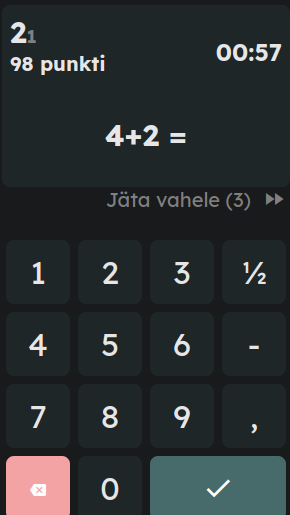
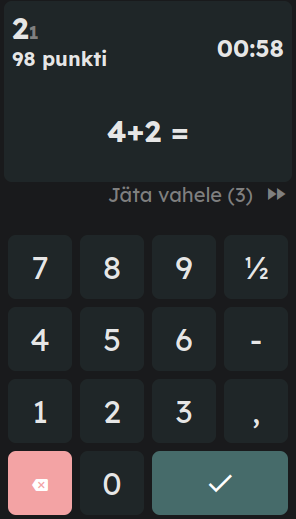
Class join and leave/change updates, UI bug fixes and semantic improvements

diff --git a/resources/js/Pages/Guide/GuidePage.jsx b/resources/js/Pages/Guide/GuidePage.jsx
@@ -1,0 +1,82 @@
+import Navbar from "@/Components/Navbar";
+import SizedBox from "@/Components/SizedBox";
+import { Head } from "@inertiajs/react";
+import "/public/css/guide.css";
+import HorizontalRule from "@/Components/HorizontalRule";
+
+export default function GuidePage({auth}){
+    return <>
+        <Head title="Kuidas mängida?" />
+        {auth.user != null && <Navbar title="Kuidas mängida" user={auth.user} />}
+
+        <SizedBox height={36} />
+
+        <h2>Kuidas mängida?</h2>
+
+        <section>
+            <div className='header-container'>
+                <h3 className='section-header'>Liitmine</h3>
+            </div>
+
+            <div className="guide-div">
+                <h4>Ühelised</h4>
+                <p className="before-example">Alguseks on hea teha sõrmede peal.</p>
+                <span className="example">3 + 4 = 3 sõrme + 4 sõrme = 5 sõrme + 2 sõrme = 7 sõrme = 7</span>
+                <p className="before-example">Kui liitmine jäeb kümneliste piirile, siis esimesena liitge ühele arvule piisav summa, et jõuaksite kümneni ja siis ülejäänu.</p>
+                <span className="example">7+8 = 7+3+5 = 10 + 5 = 15</span>
+            </div>
+        </section>
+
+        <section>
+            <div className='header-container'>
+                <h3 className='section-header'>Jaguvusseadused</h3>
+            </div>
+
+            <div className="guide-div">
+                <table>
+                    <thead>
+                        <th>Millega jagub</th>
+                        <th>Jaguvustunnus</th>
+                    </thead>
+                    <tbody>
+                        <tr>
+                            <td>2</td>
+                            <td>
+                                <p className="before-example">Arvu üheliste number peab olema paarisarv</p>
+                                <span className="example">Paarisarvud on 0, 2, 4, 6 ja 8</span>
+                            </td>
+                        </tr>
+                        <tr>
+                            <td>3</td>
+                            <td>
+                                <p className="before-example">Arvu ristsumma peab jaguma kolmega</p>
+                                <span className="example">Ristsumma on arvu kõikide numbrite summa</span>
+                            </td>
+                        </tr>
+                        <tr>
+                            <td>4</td>
+                            <td>
+                                <p className="before-example">Arvu kahest viimasest numbrist moodustunud arv peab jaguma neljaga</p>
+                                <span className="example">5<b>24</b> jagub neljaga, sest <b>24</b> jagub neljaga</span>
+                            </td>
+                        </tr>
+                        <tr>
+                            <td>5</td>
+                            <td>
+                                <p className="before-example">Arvu üheliste number peab olema 0 või 5</p>
+                                <span className="example">6320 jagub viiega, sest see lõppeb numbriga 0</span>
+                            </td>
+                        </tr>
+                        <tr>
+                            <td>6</td>
+                            <td>
+                                <p className="before-example">Arv peab jaguma nii kahe kui kolmega</p>
+                                <span className="example">630 jagub kuuega, sest see jagub kahega ja kolmega</span>
+                            </td>
+                        </tr>
+                    </tbody>
+                </table>
+            </div>
+        </section>
+    </>;
+}

diff --git a/resources/js/Pages/Welcome/WelcomePage.jsx b/resources/js/Pages/Welcome/WelcomePage.jsx
@@ -1,26 +1,51 @@
 import ApplicationLogo from "@/Components/ApplicationLogo";
-import LoginHeader from "@/Components/LoginHeader";
 import SizedBox from "@/Components/SizedBox";
 import { Head } from "@inertiajs/react";
 import "/public/css/welcome.css";
+import { useEffect, useState } from "react";
 
 
 export default function WelcomePage(){
 
+    const [clickEaster2, setClickEaster2] = useState(0);
+
+    function showPriscAnimation(){
+        $("#priscilla").css("transform", "translate(0px, -250px)").css("visibility", "visible");
+
+        setTimeout(() => {
+            $("#priscilla").css("transform", "translate(-100px, 250px)");
+            setTimeout(() => {
+                $("#priscilla").css("visibility", "hidden");
+            }, 1000);
+        }, 2000);
+    }
+
+    useEffect(()=>{
+        if(clickEaster2 == 3){
+            setClickEaster2(0);
+            showPriscAnimation();
+        }
+    }, [clickEaster2]);
+
     setTimeout(() => {
         $(".sparkle:nth-of-type(1)").animate({"opacity": "1"}, {"duration":"200"});
-    }, 0);
+    }, 200);
 
     setTimeout(() => {
         $(".sparkle:nth-of-type(3)").animate({"opacity": "1"}, {"duration":"300"});
-    }, 100);
+    }, 300);
 
     setTimeout(() => {
         $(".sparkle:nth-of-type(2)").animate({"opacity": "1"}, {"duration":"400"});
-    }, 200);
+    }, 350);
+
+
 
     return (
         <>
+
+            <img id="priscilla" style={{zIndex:"1000", transition:"transform 1000ms", visibility:"hidden", position:"fixed", rotate:"20deg", height:"300px", bottom:"-300px", left:"-100px"}} src="/assets/eastereggs/priskilla.png" alt="" />
+
             <Head title="Tere tulemast" />
             <div className="home-navbar">
                 <div className="title-div">
@@ -32,7 +57,7 @@ export default function WelcomePage(){
             </div>
             <SizedBox height={36} />
             <div className="main-content">
-                <h1><span style={{color:"rgb(var(--primary-color))"}}>Reaaler</span> muudab <br />matemaatika <span className="shine">säravaks<img className="sparkle " src="/assets/homepage/sparkle.png" alt="" /><img className="sparkle " src="/assets/homepage/sparkle.png" alt="" /><img className="sparkle " src="/assets/homepage/sparkle.png" alt="" /></span></h1>
+                <h1><span style={{color:"rgb(var(--primary-color))"}}>Reaaler</span> muudab <br />matemaatika <span className="shine" onClick={()=>setClickEaster2((e)=>e+1)}>säravaks<img className="sparkle " src="/assets/homepage/sparkle.png" alt="" /><img className="sparkle " src="/assets/homepage/sparkle.png" alt="" /><img className="sparkle " src="/assets/homepage/sparkle.png" alt="" /></span></h1>
 
                 <button className="onboarding-btn" onClick={()=>window.location.href = route("register")}> <span translate="no" className="material-icons">calculate</span> Alusta kohe</button>
                 &nbsp;&nbsp;<a alone="" href={route("login")}>Logi sisse&nbsp;&nbsp;<span className="material-icons" translate="no">arrow_right_alt</span></a>

diff --git a/resources/js/Pages/JoinClass/JoinClassPage.jsx b/resources/js/Pages/JoinClass/JoinClassPage.jsx
@@ -9,24 +9,38 @@ export default function JoinClassPage({auth, classData, allClasses, errors}){
 
     console.log(errors);
 
+    function onClassRemove(){
+        if(confirm("Kas oled kindel, et soovid end klassist eemaldada?")){
+            $.post(route("classRemove"), {"_token":window.csrfToken}).done(function (data){
+                window.location.href = route("dashboard");
+            }).fail(function (data){
+                console.log(data);
+            });
+        }
+    }   
+
     return <>
         <Head title='Ühine klassiga' />
         <Navbar user={auth.user} title="Ühine klassiga" />
         <SizedBox height={36} />
 
-        <h2>Ühine klassiga</h2>
+        <h2>{classData == null ? "Ühine klassiga" : "Vaheta klassi"}</h2>
             <div className="container">
                 {Object.keys(errors).length > 0 && <InfoBanner text={errors[Object.keys(errors)[0]]} />}
-                {classData != null && <InfoBanner text={"Sa juba oled klassis ("+classData.klass_name+"). Jätkates lahkud sa automaatselt sellest klassist"} />}
+                {classData != null && <section>
+                    <InfoBanner transparent={true} text={"Sa juba oled klassis ("+classData.klass_name+"). Vajutades 'Lahku klassist' või lisades end mõnda teise klassi eemaldatakse sind praegusest klassist."} />
+                    <button onClick={onClassRemove} style={{marginTop:"0", width:"100%", height:"100%", boxSizing:"border-box", marginInline:"-8px"}} secondary=""> <span className="material-icons" translate="no">close</span> Lahku klassist</button>
+                </section>}
                 <div className="preferences">
                     <section>
-                        <form action={route("join")} method="post">
+                        <form action={route("join")} method="post" autoComplete="off">
+                            <input type="hidden" name="" id="" autoComplete="false" />
                             <input type="hidden" name="_token" value={window.csrfToken}  />
                             <select style={{marginBottom:"8px"}} name="klass_id" required>
                                 <option disabled selected value="">Vali klass</option>
                                 {allClasses.map((e)=> <option key={e.klass_id} value={e.klass_id}>{e.klass_name}</option> )}
                             </select>
-                            <input required style={{width:"100%", height:"100%", boxSizing:"border-box", marginInline:"-8px"}} type="password" name="klass_password" placeholder="Parool klassiga ühinemiseks" />
+                            <input autoComplete="new-password" required style={{width:"100%", height:"100%", boxSizing:"border-box", marginInline:"-8px"}} type="password" name="klass_password" placeholder="Parool klassiga ühinemiseks" />
                             <button style={{width:"100%", height:"100%", boxSizing:"border-box", marginInline:"-8px"}} type="submit">Ühine</button>
                         </form>
                     </section>

diff --git a/resources/js/Components/GameTile.jsx b/resources/js/Components/GameTile.jsx
@@ -4,16 +4,28 @@ const typeToReadable = {
     "natural":"Naturaalarvud",
     "integer":"Täisarvud",
     "fraction":"Kümnendmurrud",
+    "roman":"Rooma numbrid",
+    "kujundid":"Tavaline",
+    "color":"Erinevad värvid",
+    "size":"Erinevad suurused",
+    "all":"Erinevad värvid ja suurused"
 };
 
 const isTypeShown = data.game_type != null && data.game_type in typeToReadable;
+
+const gameNames = {
+    "lihtsustamine":"Murru taandamine",
+    "jaguvus":"Jaguvusseadused"
+};
+
+var gameName = data.game == null ? "Tundmatu" : data.game in gameNames ? gameNames[data.game] : data.game.substring(0, 1).toUpperCase() + data.game.substring(1);
 
 return <>
         <a href={"/game/"+data.game_id+"/details"} style={{all:"unset", cursor:"pointer"}}>
             <div style={{overflow:"hidden", display:"flex", justifyContent:"space-between", flexDirection:"row", backgroundColor:"rgb(var(--section-color), var(--section-transparency))", borderRadius:"8px", margin:"8px", padding:"8px"}}>
                 <div style={{textAlign:"start"}}> 
-                    <h2 style={{color:"rgb(var(--primary-color))", fontSize:"1.3em", marginBlock:"4px", textTransform:"capitalize"}}>{data.game ?? "Tundmatu"}</h2>
-                    <p style={{marginBlock:"4px", color:"grey"}}>{data.score_sum} punkt{data.score_sum == 1 ? "" : "i"} {isTypeShown && <span>·</span>} <span style={{textTransform:"capitalize"}}>{isTypeShown ? typeToReadable[data.game_type] : ""}</span></p>
+                    <h2 style={{color:"rgb(var(--primary-color))", fontSize:"1.3em", marginBlock:"4px"}}>{data.game == null ? "Tundmatu" : decodeURIComponent(gameName)}</h2>
+                    <p style={{marginBlock:"4px", color:"grey"}}>{data.score_sum} punkt{data.score_sum == 1 ? "" : "i"} {isTypeShown && <span>·</span>} <span>{isTypeShown ? typeToReadable[data.game_type] : ""}</span></p>
                     
                     {/* <p style={{marginBlock:"4px", color:"grey"}}>{data.game_count} tehe{data.game_count == 1 ? "" : "t"} {isTypeShown && <span>·</span>} <span style={{textTransform:"capitalize"}}>{isTypeShown ? typeToReadable[data.game_type] : ""}</span></p> */}
                 </div>

diff --git a/resources/js/Pages/Dashboard/DashboardPage.jsx b/resources/js/Pages/Dashboard/DashboardPage.jsx
@@ -36,14 +36,14 @@ export default function Dashboard({auth, stats, classData}) {
                     <h3 className='section-header'>Statistika</h3>
                 </div>
                 <div className="stats-container">
-                    <StatisticsWidget stat={stats.total_training_count ?? totalTrainingCount} desc={"Treeningut"} oneDesc={"Treening"} />
+                    <StatisticsWidget stat={stats.total_training_count ?? totalTrainingCount} desc={"Mängu"} oneDesc={"Mäng"} />
                     <StatisticsWidget stat={(stats.accuracy ??(parseInt(window.localStorage.getItem("total-percentage") ?? "0")/parseInt(window.localStorage.getItem("total-training-count") ?? "1")).toFixed(0)) + "%"} desc="Vastamistäpsus" />
                     {/* <StatisticsWidget stat={stats.last_active ?? "-"} desc="Viimati aktiivne" /> */}
-                    <StatisticsWidget stat={stats.streak ?? "-"} desc="Streak" />
+                    <StatisticsWidget stat={stats.streak ?? "-"} desc="Järjestikust päeva" oneDesc="Järjestikune päev" />
                     <StatisticsWidget stat={stats.points ?? window.localStorage.getItem("total-points") ?? "0"} desc="Punkti" oneDesc={"Punkt"} />
                 </div>
                 {stats.total_training_count > 0 && <><SizedBox height={24}/>
-                <a alone='true' href={route("gameHistory")}>Vaata täpsemalt <span translate="no" className="material-icons">navigate_next</span></a>
+                <a alone='true' href={route("gameHistory")}>Mängude ajalugu <span translate="no" className="material-icons">navigate_next</span></a>
                 <SizedBox height={8}/></>}
             </section>}
             {auth.user.role == "guest" && <section style={{backgroundColor:"rgb(var(--section-color),  var(--section-transparency))", borderRadius:"var(--primary-btn-border-radius)", padding:"8px", marginBlock:"8px"}}>

diff --git a/resources/js/Pages/UpdateHistory/UpdateHistoryPage.jsx b/resources/js/Pages/UpdateHistory/UpdateHistoryPage.jsx
@@ -63,6 +63,7 @@ export default function UpdateHistoryPage({auth}){
         "10.03.2024":["Uus seade klaviatuuri ümberpööramiseks (nii, nagu on kalkulaatoritel)"],
         "14.03.2024":["boldPranglimisrakendus saab nime – Reaaler", "Nime ja logo konkursi tulemused on avalikustatud", "Kuna logo vajab digitaliseerimist, ei ole need veel lehele üles pandud - seda teeme lähiajal", "Plaanime lisaks nime ja logo uuendamisele siis ka mõne teise suurema muudatuse teha", "boldMängude ajalugu võimaldab näha kõiki varasemalt mängitud kordi", "Lisaks saab oma paremate mängude linke teistele vaatamiseks jagada", "Ja lõpetuseks, head pii-päeva"],
         "15.03.2024":["boldStreak süsteem motiveerib igapäevaselt pranglima", "boldSamuti lisandus võimalus vaadata enda klassi andmeid ja edetabelit", "Kui sul veel klassi pole, saad selle profiililt lisada", "boldSamuti valmib esialgne koduleht", "Väga tihe päev täis põnevaid uuendusi", ],
+        "16.03.2024":["Uuendatud konto loomise flow – enam ei sisesta kasutaja kontot luues klassi, vaid selle saab lisada pärast profiili vaates", "Profiili vaatesse lisatud nupp kas klassiga liitumiseks või oma staatuse muutmiseks (saab end klassist maha võtta ja teise klassi minna)", "Oleme arvestanud ka inimestega, kes ei taha klassis avalikult osaleda, st klassis olemine ei ole rakenduse poole pealt kohustuslik", "Parandatud liidese viga, kus murrud renderdati kohati liiga väikeselt", "Semantilised parandused töölaual ja teised väiksemad parandused"],
     };
 
     return <>

diff --git a/resources/js/Pages/GameDetails/GameDetailsPage.jsx b/resources/js/Pages/GameDetails/GameDetailsPage.jsx
@@ -18,22 +18,30 @@ export default function GameDetailsPage({game, auth, playedBy}){
         return minutes + ":" + seconds;
     }
 
-    const name = game.game == null ? null : game.game[0].toUpperCase() + game.game.substring(1);
-
     const userName = playedBy == null ? null : playedBy.eesnimi + " " + playedBy.perenimi;
 
     const typeToReadable = {
         "natural":"Naturaalarvud",
         "integer":"Täisarvud",
         "fraction":"Kümnendmurrud",
+        "roman":"Rooma numbrid",
     };
 
+    const gameNames = {
+        "lihtsustamine":"Murru taandamine",
+        "jaguvus":"Jaguvusseadused"
+    };
+    
+    var name = game.game == null ? "Tundmatu" : game.game in gameNames ? gameNames[game.game] : game.game.substring(0, 1).toUpperCase() + game.game.substring(1);
+    
+
+
     return <>
-            <Head title={name ?? "Mäng"} />
+            <Head title={name == null ? "Mäng" : decodeURIComponent(name)} />
             <Navbar title={name ?? "Mäng"} user={auth.user} />
             <SizedBox height={36} />
 
-        <h2 style={{marginBottom:"8px"}}>{name ?? "Detailne vaade"}</h2>
+        <h2 style={{marginBottom:"8px"}}>{name == null ? "Detailne vaade" : decodeURIComponent(name)}</h2>
 
         {playedBy != null && playedBy.id != auth.user.id &&<div style={{display:"flex", flexDirection:"row", justifyContent:"center", alignItems:"center", gap:"0 8px", marginBlock:"0", marginBottom:"24px"}}>
             <img style={{height:"32px"}} className="profile-pic" src={playedBy.profile_pic} alt={userName} />

diff --git a/resources/js/Pages/Profile/ProfilePage.jsx b/resources/js/Pages/Profile/ProfilePage.jsx
@@ -192,7 +192,7 @@ export default function ProfilePage({auth, className}){
                         <div style={profileTypeStyle}>
                             <p style={{color:'gray', marginBlock: "0"}}>KLASS</p>
                             {className == null && <button style={{marginRight:0}} onClick={()=>window.location.href = route("classJoin")}>Ühine klassiga</button> }
-                            {className != null && <h3 style={{marginBlock:0, color: className == null ? "grey" : "inherit"}}>{auth.user == null ? "140.a" : auth.user.klass == "õpetaja" ? "Õpetajakonto" : className ?? "Pole lisatud"}</h3>}
+                            {className != null && <div style={{display:"flex", gap:"8px", flexDirection:"row", alignItems:"center"}} ><h3 style={{marginBlock:0, color: className == null ? "grey" : "inherit"}}>{auth.user == null ? "140.a" : auth.user.klass == "õpetaja" ? "Õpetajakonto" : className ?? "Pole lisatud"}</h3> <a alone="" href={route("classJoin")}><span className="material-icons no-anim" style={{cursor:"pointer", color:"rgb(var(--text-color))"}} translate="no">edit</span></a> </div> }
                         </div>
                     </div>
                     <div className="mobile-block" style={{display:"grid", gridTemplate:"1fr", width:"90%", gap:"8px", margin:'auto'}}>

diff --git a/resources/js/Components/LeaderboardRow.jsx b/resources/js/Components/LeaderboardRow.jsx
@@ -4,7 +4,7 @@ export default function leaderboardRow({points, index, player, user}){
             <div style={{display:"flex", flexDirection:"row", gap:"8px", alignItems:"center"}}>
                 <span style={{color: (player ? "rgb(var(--primary-color))" : "inherit")}}>{index + 1}. </span>
                 <img src={user.profile_pic} alt={user.eesnimi + " " + user.perenimi} className="profile-pic" style={{height:"24px"}} />
-                <p style={{textAlign:"start", marginBlock:"0", color: (player ? "rgb(var(--primary-color))" : "inherit"), fontWeight: (player ? "bold" : "normal"), textTransform:"capitalize"}}> {user.eesnimi} {user.perenimi}</p>
+                <p style={{textAlign:"start", marginBlock:"0", color: (player ? "rgb(var(--primary-color))" : "inherit"), fontWeight: (player ? "bold" : "normal"), textTransform:"capitalize"}}> {(user.eesnimi + " " + user.perenimi)}</p>
             </div>
             <p style={{textAlign:"end", marginBlock:"0", color: (player ? "rgb(var(--primary-color))" : "inherit"), fontWeight: (player ? "bold" : "normal")}}>{points} XP</p>
         </div>

diff --git a/resources/js/Pages/Register/NewRegisterPage.jsx b/resources/js/Pages/Register/NewRegisterPage.jsx
@@ -190,7 +190,6 @@ export default function NewRegisterPage({message, errors}){
                                 <input id="famname" name="perenimi" className="row-input" style={{flex:1, marginRight:"0", textTransform:"capitalize"}} type="text" placeholder="Perenimi" autoCapitalize="words" required/><br />
                             </div>
                             <input id="email" name="email" type="email" placeholder="E-posti aadress" required/><br />
-                            {!isTeacher && <><input minLength="4" maxLength="5" pattern="\d{2,3}\.[^\d]" title="Mis lennus sa õpid? (nt 140.a)" name="klass" type="text" placeholder="Lend (nt 140.a)" required/><br /> </>}                       
                             <button type="submit" >Edasi</button>
                             <a style={{display:"block", textAlign:"left"}} alone="" onClick={()=>navigateToNext(null, true)}>Tagasi</a>
                         </form>

diff --git a/resources/js/Components/InfoBanner.jsx b/resources/js/Components/InfoBanner.jsx
@@ -1,5 +1,5 @@
-export default function InfoBanner({text}){
-    return <div style={{backgroundColor:"rgb(var(--section-color),  var(--section-transparency))", borderRadius:"var(--primary-btn-border-radius)", padding:"8px", marginBlock:"8px"}}>
+export default function InfoBanner({text, transparent}){
+    return <div style={{backgroundColor:"rgb(var(--section-color), "+(transparent ? 0 : "var(--section-transparency))"), borderRadius:"var(--primary-btn-border-radius)", padding:"8px", marginBlock:"8px"}}>
             <span className="material-icons" style={{color:"rgb(var(--primary-color))", display:"inline", marginBottom:"0"}}>info_outline</span> <p style={{color:"rgb(var(--primary-color))", marginTop:"0"}}>{typeof text == "string" ? text : text.map((i)=>(i.map((e)=><span style={{display:"block", marginBlock:"12px"}} key={e}>{e}</span>)))}</p>
         </div>;
 }

diff --git a/public/css/guide.css b/public/css/guide.css
@@ -1,0 +1,46 @@
+.guide-div{
+    text-align: start;
+}
+
+.before-example{
+    margin-bottom: 4px;
+}
+
+.example{
+    margin-top: 0;
+    color: grey;
+}
+
+p{
+    margin-block: 32px;
+}
+
+table{
+    border-radius: 4px;
+    margin: auto;
+}
+
+thead > th{
+    background-color: rgb(var(--primary-color));
+    color: rgb(var(--primary-btn-text-color));
+}
+
+tbody > tr:nth-of-type(2n){
+    background-color: rgb(var(--primary-color), var(--section-transparency));
+}
+
+tbody > tr:nth-of-type(2n+1){
+    background-color: transparent;
+}
+
+tbody > tr >td:nth-child(2n+1){
+    text-align: center;
+}
+
+table p{
+    margin-block: 4px;
+}
+
+td{
+    padding: 8px;
+}
